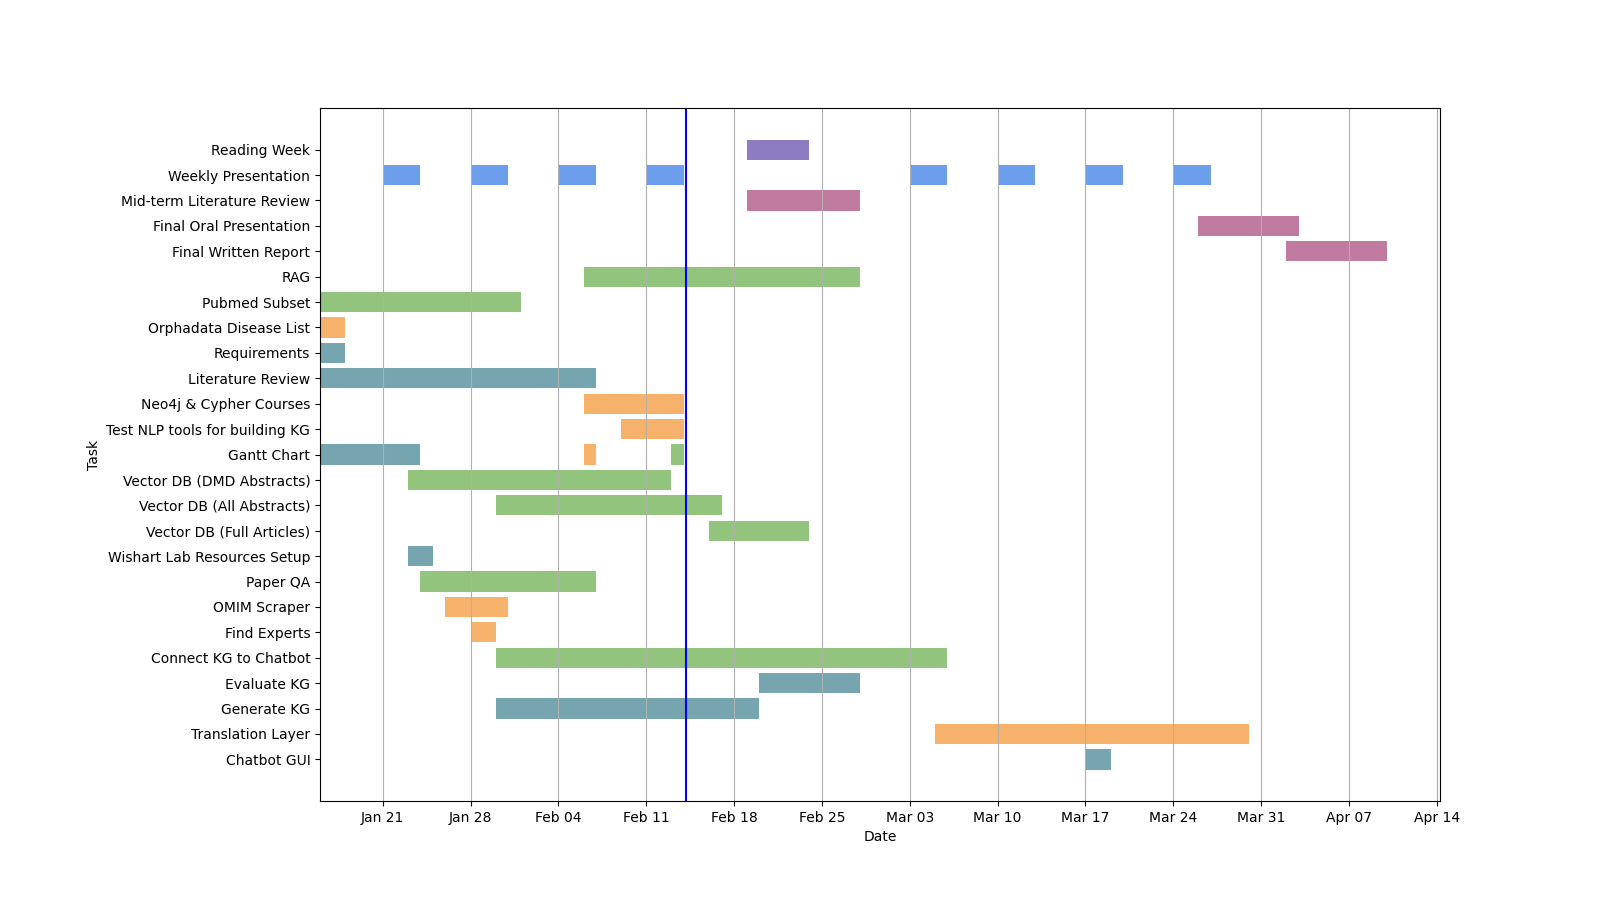
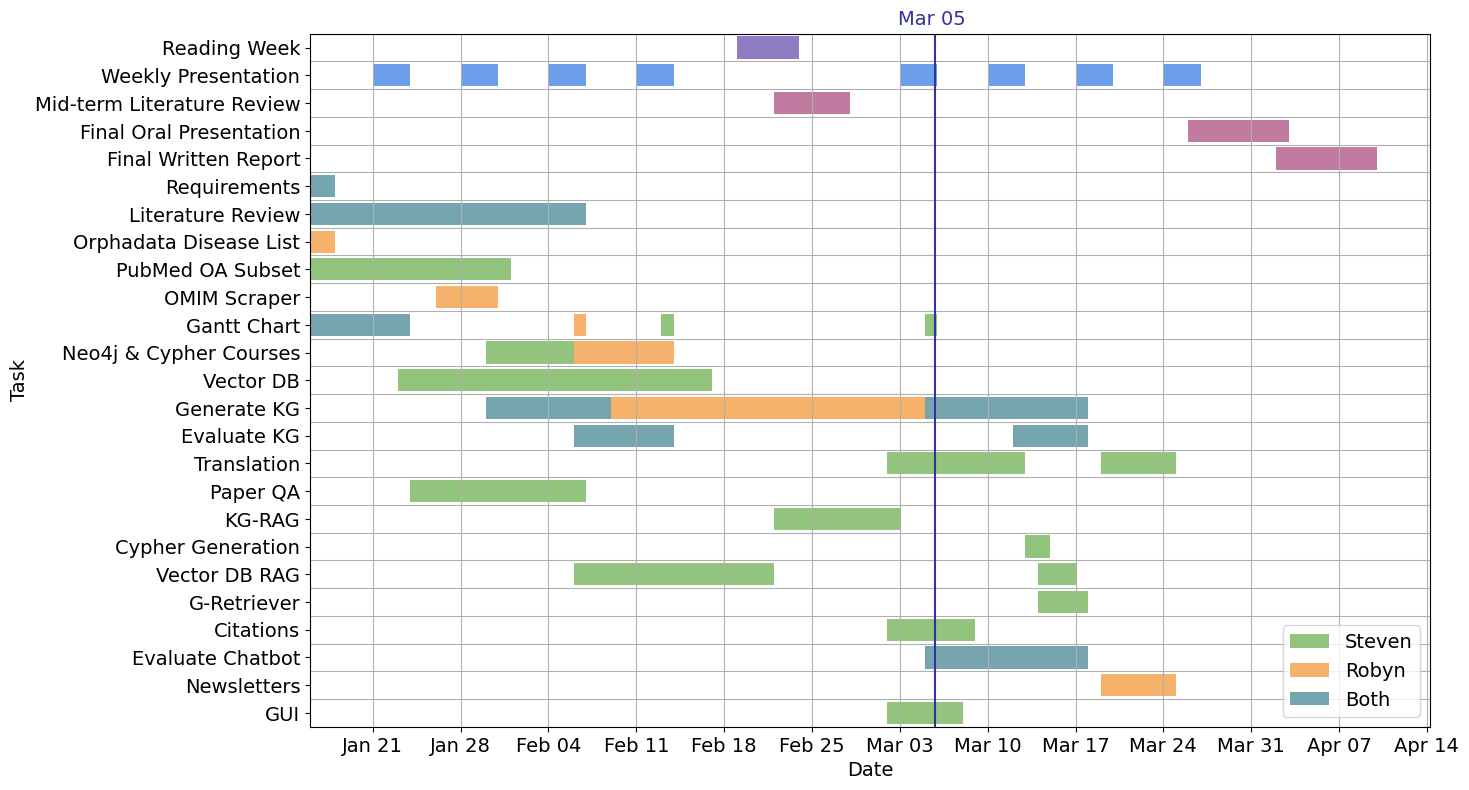
Add legend and horizontal gridlines

diff --git a/ganttcharter.py b/ganttcharter.py
@@ -1,6 +1,7 @@
 import argparse
 from pathlib import Path
 
+import matplotlib
 import matplotlib.pyplot as plt
 import pandas as pd
 from matplotlib.dates import SU, DateFormatter, WeekdayLocator
@@ -18,6 +19,16 @@ COLOR_TABLE = {
     "magenta": "#c27ba0",
 }
 
+BIOIN_BLUE = "#333399"
+
+# HATCH_TABLE = {
+#     "Steven": "/",
+#     "Robyn": "\\",
+#     "Both": "x",
+#     np.nan: "",
+# }
+
+matplotlib.rcParams.update({'font.size': 14})
 
 def gantt_chart(csv_file: Path, fig_file: Path, current_date=pd.Timestamp.today()):
     """
@@ -47,12 +58,20 @@ def gantt_chart(csv_file: Path, fig_file: Path, current_date=pd.Timestamp.today(
     df["task_duration"] = df["days_to_end"] - df["days_to_start"] + 1  # to include also the end date
 
     df["_color"] = df["color"].map(COLOR_TABLE)
+    # df["_hatch"] = df["label"].map(HATCH_TABLE)
 
     fig, ax = plt.subplots(figsize=(16, 9))
     # increase left padding
     plt.subplots_adjust(left=0.2)
 
-    ax.barh(y=df["title"], width=df["task_duration"], left=df["start_date"], color=df["_color"])
+    ax.barh(
+        y=df["title"],
+        width=df["task_duration"],
+        left=df["start_date"],
+        color=df["_color"],
+        label=df["label"],
+        # hatch=df["_hatch"],
+    )
 
     # change x-axis labels to dates
     ax.xaxis_date()
@@ -61,17 +80,32 @@ def gantt_chart(csv_file: Path, fig_file: Path, current_date=pd.Timestamp.today(
     ax.xaxis.set_major_locator(WeekdayLocator(byweekday=SU))
 
     # add vertical line for current date
-    ax.axvline(x=current_date, color="blue", linestyle="-")
-    # add label above vertical line with current date
+    ax.axvline(x=current_date, color=BIOIN_BLUE, linestyle="-")
+    # add text above vertical line with current date outside of the plot
+    # ax.text(current_date, 0, "Today", rotation=90, verticalalignment="bottom", horizontalalignment="right")
+    date_ratio = (current_date - df["start_date"].min()) / (df["end_date"].max() - df["start_date"].min())
+    plt.gcf().text(date_ratio - 0.025, 0.89, current_date.strftime("%b %d"), fontsize=14, color=BIOIN_BLUE)
+
     ax.set_xlabel("Date")
     ax.set_ylabel("Task")
     # ax.set_title("Gantt Chart")
+
     # horizontal lines
-    # ax.grid(axis="y")
-    # axes[0].grid(axis='y', which='minor')  # set the grid on the minor ticks
-    # axes[0].tick_params(axis='y', which='minor', length=0)  # hide minor tick marks
+    number_bars = len(df['title'].unique())
+    ax.set_yticks(list(map(lambda y: y - 0.5, range(number_bars + 1))), minor=True)
+    ax.set_ylim(-0.5, number_bars - 0.5)
+    ax.grid(axis='y', which='minor', zorder=0)  # set the grid on the minor ticks
+    ax.tick_params(axis='y', which='minor', length=0)  # hide minor tick marks
+
+    # add legend
+    handles, labels = plt.gca().get_legend_handles_labels()
+    by_label = dict(zip(labels, handles))
+    by_label = {k: v for k, v in by_label.items() if k != "nan"}
+    plt.legend(by_label.values(), by_label.keys(), loc="lower right")
+
     ax.xaxis.grid(True)
-    plt.savefig(fig_file)
+    plt.savefig(fig_file, bbox_inches="tight")
+
 
 def main():
     parser = argparse.ArgumentParser(description="Generate a Gantt chart from a CSV file.")
